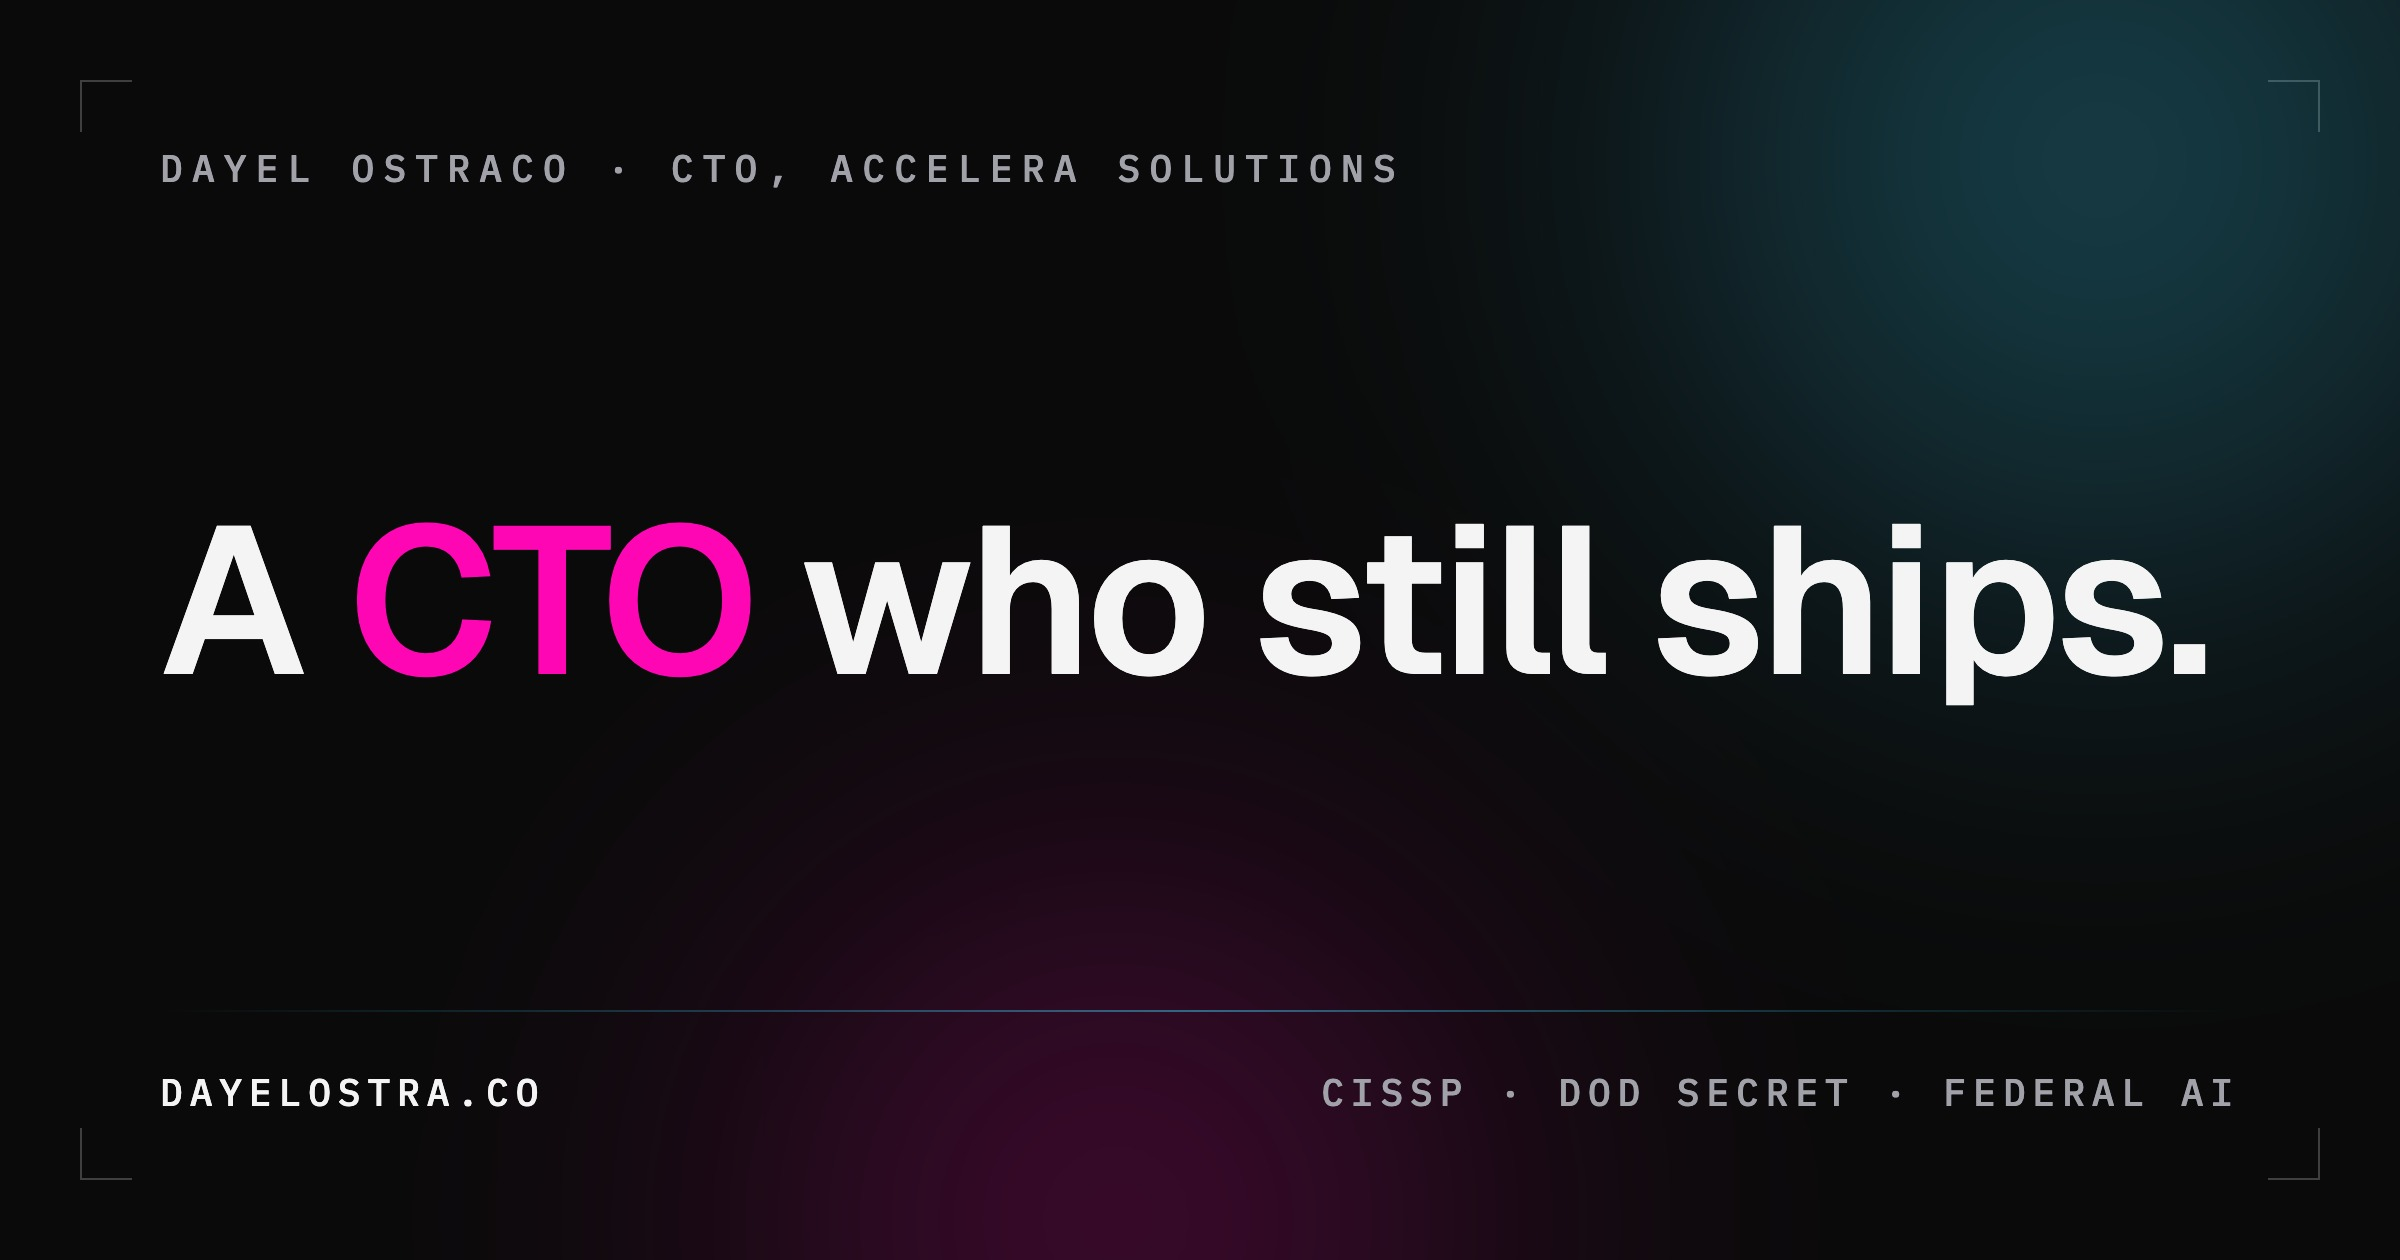
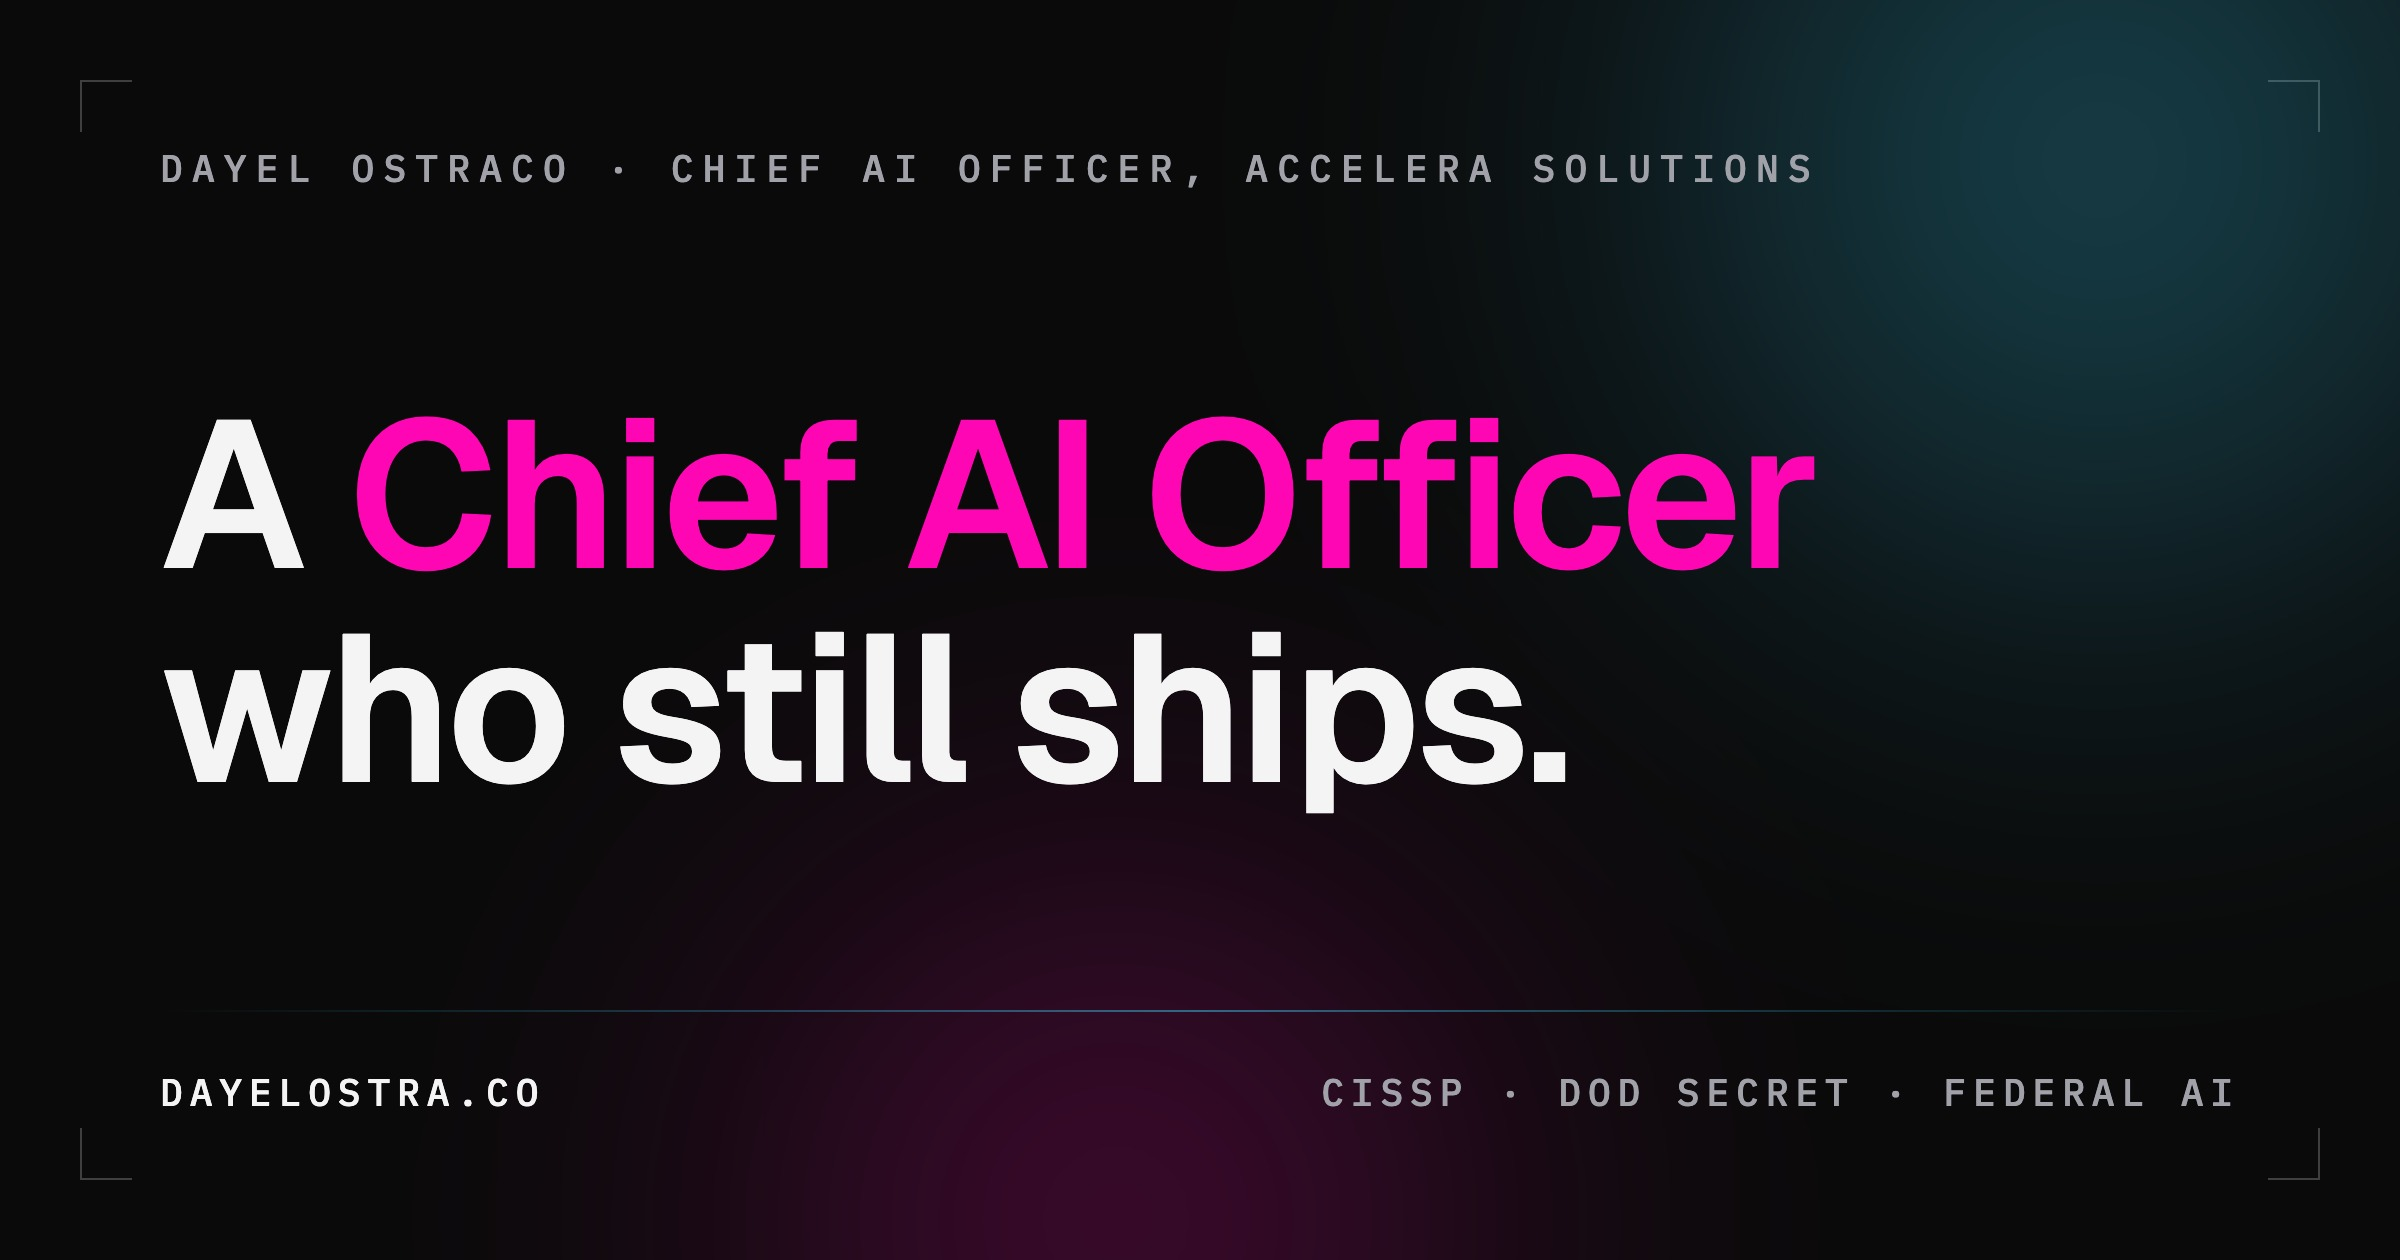
fix: mobile hero line break + regenerate social card for CAIO
Keep 'Chief AI Officer' from splitting mid-phrase on small screens
(nowrap + smaller base size), and regenerate og.jpg from the updated
template so link previews show Chief AI Officer, not CTO.

Changed region(s): [[0.0625, 0.3095, 0.9375, 0.65], [0.2812, 0.1238, 0.75, 0.1548]]

diff --git a/scripts/og/og-template.html b/scripts/og/og-template.html
@@ -62,7 +62,7 @@
     letter-spacing: -0.02em;
     max-width: 18ch;
   }
-  .headline .sig { color: #ff06b5; }
+  .headline .sig { color: #ff06b5; white-space: nowrap; }
 
   /* ambient brand glows (echo the site hero): cyan field + one pink note */
   .glow { position: absolute; border-radius: 9999px; filter: blur(90px); pointer-events: none; z-index: 0; }
@@ -97,9 +97,9 @@
     <span class="cf cf-bl"></span><span class="cf cf-br"></span>
     <span class="glow glow-cyan"></span><span class="glow glow-pink"></span>
 
-    <p class="eyebrow">Dayel Ostraco &middot; CTO, Accelera Solutions</p>
+    <p class="eyebrow">Dayel Ostraco &middot; Chief AI Officer, Accelera Solutions</p>
 
-    <h1 class="headline">A <span class="sig">CTO</span> who still ships.</h1>
+    <h1 class="headline">A <span class="sig">Chief AI Officer</span> who still ships.</h1>
 
     <div>
       <div class="rule"></div>
